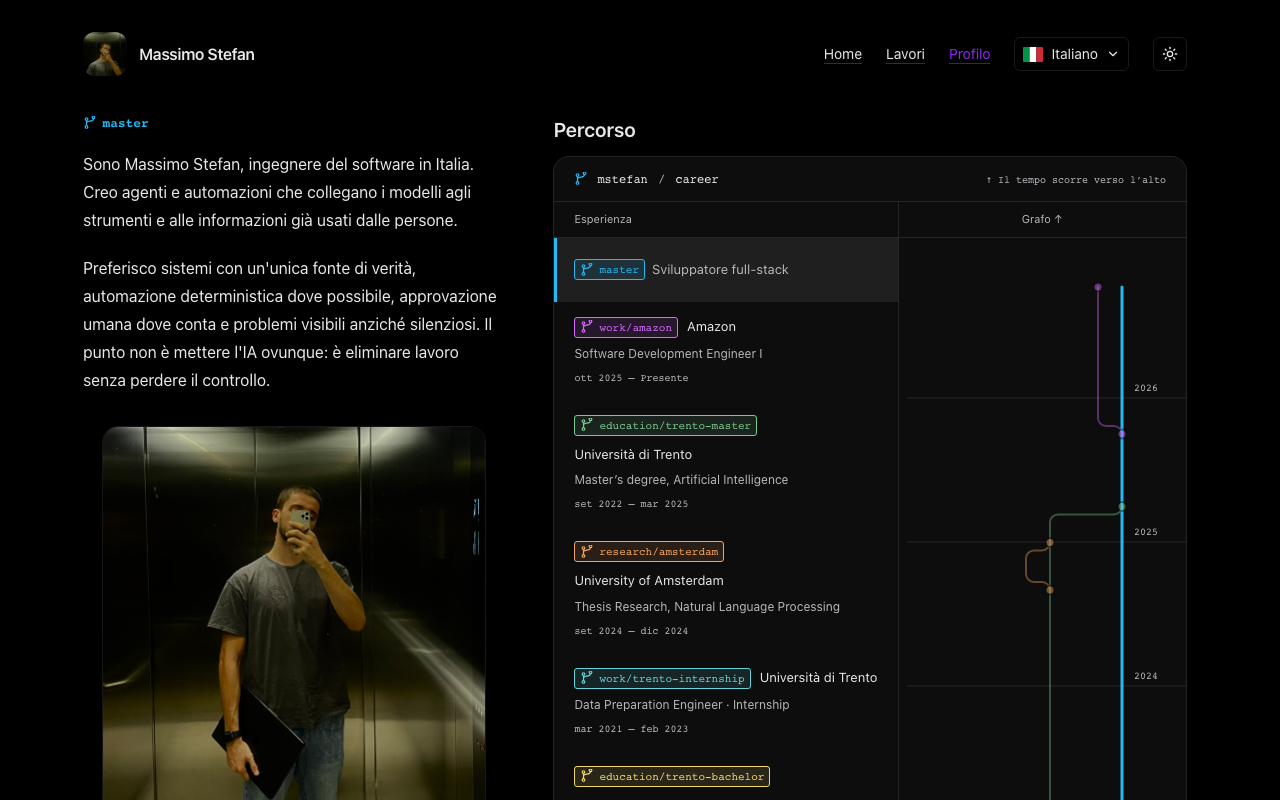
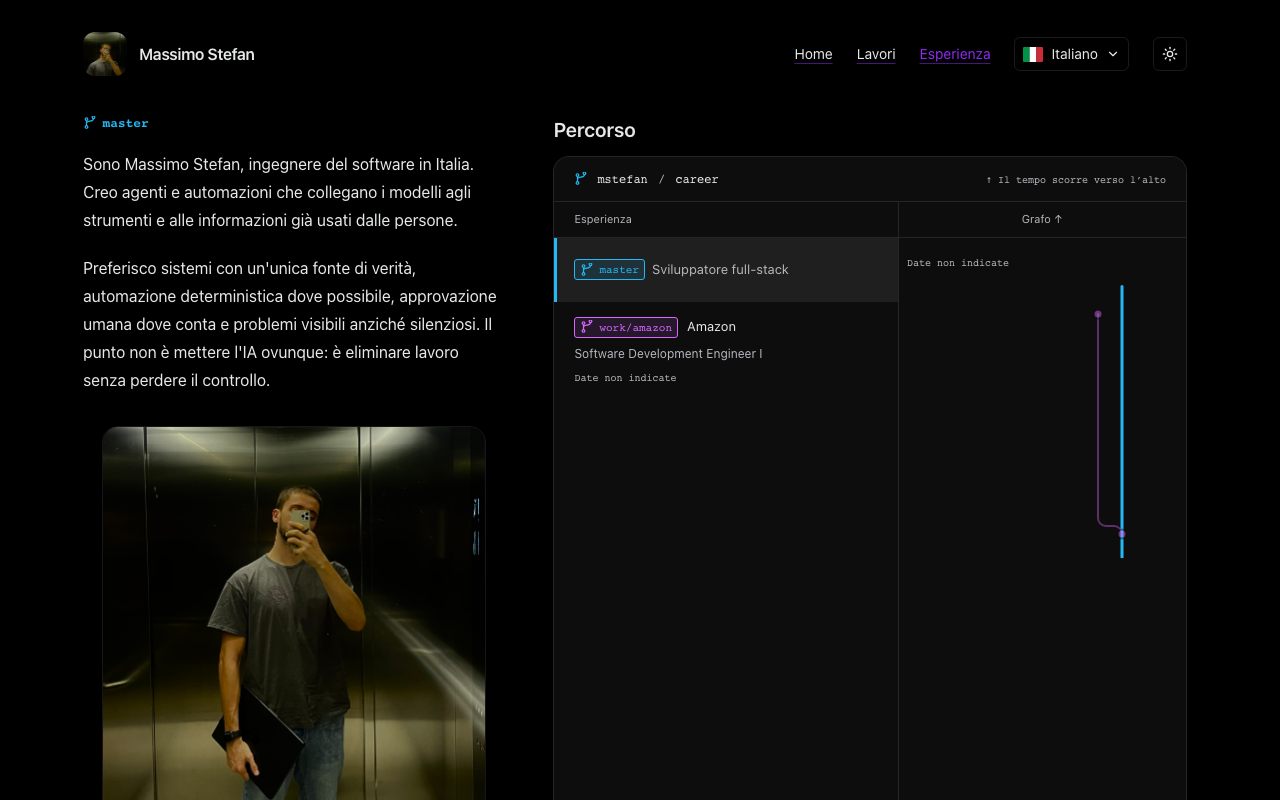
Rename About to Experience (#107)
* Rename About to Experience across the site

* Update reviewed Linux Experience navigation snapshots

* Keep Experience identity independent of stored CMS titles

* Refresh self-site previews with Experience navigation

* Refresh reviewed Linux Experience baselines after icon integration

* Document the verified production CMS-only tunnel

diff --git a/e2e/mstefan-site.review.spec.ts b/e2e/mstefan-site.review.spec.ts
@@ -176,10 +176,10 @@ test.describe("Public website review", () => {
     await expect(desktop).toBeVisible();
     await showReviewStep(page, "2 · Work explorer and responsive preview toggle");
 
-    // 3. Open About and verify its portrait and biography.
-    await page.getByRole("link", { name: "About", exact: true }).click();
+    // 3. Open Experience and verify its portrait and biography.
+    await page.getByRole("link", { name: "Experience", exact: true }).click();
     await expect(page).toHaveURL(/\/en\/about$/);
-    await expect(page.locator("#career-story")).toHaveAttribute("aria-label", "About");
+    await expect(page.locator("#career-story")).toHaveAttribute("aria-label", "Experience");
     await expect(page.getByRole("heading", { level: 1, name: "master" })).toBeVisible();
     await expect(page.getByRole("img", { name: "Massimo Stefan standing in an elevator, holding a laptop" })).toBeVisible();
     const story = page.locator("#career-story");
@@ -203,7 +203,7 @@ test.describe("Public website review", () => {
     await aboutCareer.locator("[data-career-main-row]").click();
     await expect(story.getByRole("heading", { level: 1, name: "master" })).toBeVisible();
     await expect(story.getByRole("img", { name: "Massimo Stefan standing in an elevator, holding a laptop" })).toBeVisible();
-    await showReviewStep(page, "3 · About and portrait");
+    await showReviewStep(page, "3 · Experience and portrait");
 
     // 4. Toggle dark mode and verify the rendered theme state.
     await page.getByRole("button", { name: "Toggle theme" }).click();
@@ -214,7 +214,7 @@ test.describe("Public website review", () => {
     await page.getByRole("button", { name: "Select language" }).click();
     await page.getByRole("menuitemradio", { name: /Italiano/ }).click();
     await expect(page).toHaveURL(/\/it\/about$/);
-    await expect(page.locator("#career-story")).toHaveAttribute("aria-label", "Profilo");
+    await expect(page.locator("#career-story")).toHaveAttribute("aria-label", "Esperienza");
     await expect(page.getByRole("heading", { level: 1, name: "master" })).toBeVisible();
     await expect(page.getByRole("link", { name: "Lavori", exact: true })).toBeVisible();
     await page.getByRole("link", { name: "Lavori", exact: true }).click();
@@ -290,7 +290,7 @@ test.describe("Public website review", () => {
     await page.goto("/en/projects");
     const selector = page.getByRole("combobox", { name: "Preview page", exact: true });
     await expect(selector).toHaveValue("0");
-    await expect(selector.getByRole("option")).toHaveText(["Homepage", "About", "Work"]);
+    await expect(selector.getByRole("option")).toHaveText(["Homepage", "Experience", "Work"]);
     const image = page.getByRole("img", { name: "Desktop: Screenshot of mstefan.dev", exact: true });
     const homepage = await image.getAttribute("src");
     await selector.focus();

diff --git a/lib/i18n/copy.ts b/lib/i18n/copy.ts
@@ -83,7 +83,7 @@ type SiteCopy = {
 
 export const copy = {
   en: {
-    nav: { home: "Home", projects: "Work", about: "About" },
+    nav: { home: "Home", projects: "Work", about: "Experience" },
     metadata: {
       home: {
         title: "Massimo Stefan",
@@ -94,8 +94,8 @@ export const copy = {
         description: "Selected websites and software projects by Massimo Stefan.",
       },
       about: {
-        title: "About",
-        description: "About Massimo Stefan, a software engineer building dependable AI systems.",
+        title: "Experience",
+        description: "Massimo Stefan’s experience building dependable AI systems as a software engineer.",
       },
     },
     header: {
@@ -174,7 +174,7 @@ export const copy = {
 
     },
     about: {
-      title: "About",
+      title: "Experience",
       firstParagraph: "I’m Massimo Stefan, a software engineer based in Italy. I build agents and automation that connect models to the tools and information people already use.",
       secondParagraph: "I prefer systems with one source of truth, deterministic automation where possible, human approval where it matters, and failures that are visible instead of silent. The point is not to add AI everywhere. It is to remove work without losing control.",
       imageAlt: "Massimo Stefan standing in an elevator, holding a laptop",
@@ -182,7 +182,7 @@ export const copy = {
     og: { description: "Software engineer building AI systems for real work." },
   },
   it: {
-    nav: { home: "Home", projects: "Lavori", about: "Profilo" },
+    nav: { home: "Home", projects: "Lavori", about: "Esperienza" },
     metadata: {
       home: {
         title: "Massimo Stefan",
@@ -193,8 +193,8 @@ export const copy = {
         description: "Siti web e progetti software selezionati di Massimo Stefan.",
       },
       about: {
-        title: "Profilo",
-        description: "Profilo di Massimo Stefan, ingegnere del software che realizza sistemi di IA affidabili.",
+        title: "Esperienza",
+        description: "Esperienza di Massimo Stefan, ingegnere del software che realizza sistemi di IA affidabili.",
       },
     },
     header: {
@@ -275,7 +275,7 @@ export const copy = {
 
     },
     about: {
-      title: "Profilo",
+      title: "Esperienza",
       firstParagraph: "Sono Massimo Stefan, ingegnere del software in Italia. Creo agenti e automazioni che collegano i modelli agli strumenti e alle informazioni già usati dalle persone.",
       secondParagraph: "Preferisco sistemi con un'unica fonte di verità, automazione deterministica dove possibile, approvazione umana dove conta e problemi visibili anziché silenziosi. Il punto non è mettere l'IA ovunque: è eliminare lavoro senza perdere il controllo.",
       imageAlt: "Massimo Stefan in ascensore con un laptop in mano",

diff --git a/e2e/not-found.smoke.spec.ts b/e2e/not-found.smoke.spec.ts
@@ -43,7 +43,7 @@ for (const width of [1280, 390]) {
       await expect(page.getByRole("heading", { level: 1 })).toHaveText(locale === "it" ? "Questa pagina non c’è." : "This page isn't here.");
       await expect(page.getByRole("link", { name: "Massimo Stefan", exact: false })).toHaveAttribute("href", `/${locale}`);
       if (width < 640) await page.getByRole("button", { name: locale === "it" ? "Apri navigazione" : "Open navigation" }).click();
-      await expect(page.getByRole("link", { name: locale === "it" ? "Profilo" : "About", exact: true })).toHaveAttribute("href", `/${locale}/about`);
+      await expect(page.getByRole("link", { name: locale === "it" ? "Esperienza" : "Experience", exact: true })).toHaveAttribute("href", `/${locale}/about`);
       await expect(page.getByRole("button", { name: locale === "it" ? "Cambia tema" : "Toggle theme" })).toBeVisible();
       await expect(page.getByRole("button", { name: locale === "it" ? "Seleziona lingua" : "Select language" })).toBeVisible();
     });
@@ -51,7 +51,7 @@ for (const width of [1280, 390]) {
 }
 
 for (const width of [1280, 390]) {
-  test(`@release-smoke ${width}px language, theme, and About recovery work from a 404`, async ({ page, context, baseURL }) => {
+  test(`@release-smoke ${width}px language, theme, and Experience recovery work from a 404`, async ({ page, context, baseURL }) => {
     await page.setViewportSize({ width, height: 800 });
     await context.addCookies([{ name: "site-locale", value: "en", url: baseURL! }]);
     await page.goto("/en/old-page");
@@ -65,9 +65,9 @@ for (const width of [1280, 390]) {
     await expect(page.locator("html")).toHaveClass(/dark/);
     await page.goto("/it/old-page");
     if (width < 640) await page.getByRole("button", { name: "Apri navigazione" }).click();
-    await page.getByRole("link", { name: "Profilo", exact: true }).click();
+    await page.getByRole("link", { name: "Esperienza", exact: true }).click();
     await expect(page).toHaveURL(/\/it\/about$/);
-    await expect(page.locator("#career-story")).toHaveAttribute("aria-label", "Profilo");
+    await expect(page.locator("#career-story")).toHaveAttribute("aria-label", "Esperienza");
     await expect(page.locator("html")).toHaveClass(/dark/);
   });
 }

diff --git a/payload.config.ts b/payload.config.ts
@@ -64,12 +64,12 @@ const publishedDocuments: Access = async ({ req }) => {
 function pageGlobal(slug: "home" | "about"): GlobalConfig {
   return {
     slug,
-    label: slug === "home" ? "Homepage" : "About",
+    label: slug === "home" ? "Homepage" : "Experience",
     access: { read: authenticated, update: authenticated, readVersions: authenticated },
     versions: { drafts: true, max: 20 },
     admin: {
       components: { elements: { beforeDocumentControls: ["./components/cms/PreviewLocaleSync#PreviewLocaleSync"] } },
-      description: "Bilingual page text and About photo. Project and Stack data remain in Notion.",
+      description: "Bilingual page text and Experience photo. Project and Stack data remain in Notion.",
       livePreview: {
         url: ({ locale }) => `/${locale?.code === "it" ? "it" : "en"}${slug === "about" ? "/about" : ""}?preview=1`,
       },
@@ -151,8 +151,8 @@ const careerGlobal: GlobalConfig = {
       },
       { name: "company", label: "Organization", type: "text", required: true },
       { name: "role", label: "Role or qualification", type: "text", required: true },
-      { name: "summary", type: "textarea", admin: { description: "Write this experience's story to show it in About when selected." } },
-      { name: "photo", type: "upload", relationTo: "media", admin: { description: "Shown with this experience in About only when its summary has content." } },
+      { name: "summary", type: "textarea", admin: { description: "Write this experience's story to show it in Experience when selected." } },
+      { name: "photo", type: "upload", relationTo: "media", admin: { description: "Shown with this experience in Experience only when its summary has content." } },
       { name: "documents", type: "array", fields: [
         { name: "title", type: "text", required: true },
         { name: "file", type: "upload", relationTo: "documents", required: true },

diff --git a/components/cms/AboutContent.tsx b/components/cms/AboutContent.tsx
@@ -8,6 +8,7 @@ import { PdfPreview } from "@/components/PdfPreview";
 import { BranchIcon, CareerGraph } from "@/components/CareerGraph";
 import type { Career } from "@/payload-types";
 import type { Locale } from "@/lib/i18n/config";
+import { getCopy } from "@/lib/i18n/copy";
 import type { PageContent } from "@/lib/cms/types";
 import styles from "./AboutContent.module.css";
 
@@ -28,7 +29,7 @@ export function AboutContent({ content, career, locale }: Props) {
   const viewDocuments = locale === "it" ? "Vedi i documenti" : "View documents";
   return (
     <div className={styles.layout}>
-      <section id="career-story" className={styles.story} aria-label={selected?.company || content.title}>
+      <section id="career-story" className={styles.story} aria-label={selected?.company || getCopy(locale).nav.about}>
         <div aria-live="polite" aria-atomic="true">
           <Prose>
             {selected ? <>

diff --git a/deploy/payload-production/README.md b/deploy/payload-production/README.md
@@ -12,9 +12,11 @@ The container runs committed migrations before starting Next.js in production mo
 
 For a copy of the existing development preview, stop the target runtime, verify a recoverable backup, and run `pnpm migrate:baseline-preview` once in the production image with the copied volume and secret. This compares all table columns, indexes and foreign keys against a freshly migrated temporary database, rejects schema drift, and only records matching migration history. Then start normally. Never use the interactive development-schema migration prompt against the original preview database.
 
-The admin Publish button publishes only the active language by default; the secondary all-languages action remains explicit. The Career global owns work and education entries, their branch names, descriptions, optional dates, newest-first display order, graph colors, and optional photos and PDF documents; its drafts use the same publishing workflow. About keeps the main profile visible when a selected career entry has neither a summary nor documents. An experience photo appears only with a written summary. The About photo is shared across languages. Anonymous requests may access only photos visible through published About or summary-backed Career content, and PDFs referenced by published Career content, in either language. PDFs do not require a written summary. Uploaded or replaced draft-only photos and PDFs remain available only to authenticated editors.
+The admin Publish button publishes only the active language by default; the secondary all-languages action remains explicit. The Career global owns work and education entries, their branch names, descriptions, optional dates, newest-first display order, graph colors, and optional photos and PDF documents; its drafts use the same publishing workflow. Experience keeps the main profile visible when a selected career entry has neither a summary nor documents. An experience photo appears only with a written summary. The Experience photo is shared across languages. Anonymous requests may access only photos visible through published Experience or summary-backed Career content, and PDFs referenced by published Career content, in either language. PDFs do not require a written summary. Uploaded or replaced draft-only photos and PDFs remain available only to authenticated editors.
 
 Administration, Payload APIs, and draft previews are available through the loopback-bound application port or its private SSH tunnel. With `SITE_DEPLOYMENT=private`, the exact tailnet Serve Host `itakello-server.tailacf6a7.ts.net:10000` is also accepted. That route must remain tailnet-only and have no public Openship endpoint. The Openship public reverse proxy must preserve Host and overwrite X-Real-IP on every request; any X-Real-IP denies private access even when Host claims the loopback or tailnet address. X-Forwarded-Host does not grant access. Public media and document file requests discard CMS credentials and use `Cache-Control: no-store` so publication changes revoke access. Only signed webhook POST handlers and published media and document file GET/HEAD requests are exposed under `/api`.
+
+The production editor uses the registered Mac loopback tunnel at `http://127.0.0.1:3102/admin`. Start it with `ssh -N -F ~/.ssh/config.local -L 127.0.0.1:3102:127.0.0.1:20001 mstefan-cms`. The CMS-only account uses the existing 1Password-held SSH key and permits local forwarding only to server `127.0.0.1:20001`; shell sessions, remote forwarding, passwords, and agent forwarding are disabled. Its host policy is `/etc/ssh/sshd_config.d/70-mstefan-cms.conf`. Verify the actual production port mapping before reconnecting after deployment or rollback, using Infra’s service and port registry.
 
 Use the [manual backup procedure](BACKUP.md) while all writers are stopped. Verify a restored copy in an isolated volume before relying on the archive for recovery; same-host archives do not protect against host loss.
 

diff --git a/deploy/event/README.md b/deploy/event/README.md
@@ -6,7 +6,7 @@ A successful push `CI` workflow event passes its exact SHA and run ID through a 
 
 The active baseline and candidate recursive Git tree/blob identities must match for migrations, Payload configuration/runtime, collection/global/schema directories, dependencies/lockfile, Dockerfile, `.dockerignore`, TypeScript/Next build configuration and startup configuration. `lib/i18n/copy.ts` and locale configuration are included because Payload derives localized field names from their object keys. Changes to these protected files block for attended compatibility and restore proof. Runtime documentation and backup tests do not block. This conservative gate does not certify arbitrary application changes as migration-compatible; any new schema/startup path must enter the protected set before use.
 
-After deployment, provider record/build status and active deployment ID/commit must match. Read-only GETs to exact `https://www.mstefan.dev` English/Italian Home, Projects and About must return 200. Admin, users, draft/version APIs, GraphQL and preview probes must return 404. Redirects are rejected on these exact paths. These probes establish route status/privacy and provider commit metadata; they do not attest the public HTML's build SHA. The controller also requires one running RW mount of the approved named volume, belonging to the exact active deployment container, before submission and during smoke. Smoke and the probe must be proven on the installed host before activation.
+After deployment, provider record/build status and active deployment ID/commit must match. Read-only GETs to exact `https://www.mstefan.dev` English/Italian Home, Projects and Experience must return 200. Admin, users, draft/version APIs, GraphQL and preview probes must return 404. Redirects are rejected on these exact paths. These probes establish route status/privacy and provider commit metadata; they do not attest the public HTML's build SHA. The controller also requires one running RW mount of the approved named volume, belonging to the exact active deployment container, before submission and during smoke. Smoke and the probe must be proven on the installed host before activation.
 
 ## Host installation and activation proof
 

diff --git a/specs/mstefan-site-review.md b/specs/mstefan-site-review.md
@@ -18,7 +18,7 @@
 
 1. Open `/en`. The English introduction and Selected work heading are visible. Toolkit categories wrap without sideways scrolling, and phone summaries use their own full-width row.
 2. Follow Work to `/en/projects`. A compact desktop project list selects details and links above a single preview without its own scrollbar. Below 1024px, a labeled native picker replaces the list and keeps selection and preview resets in sync. Desktop/Mobile buttons with matching icons select passive homepage images captured at 1280px and 390px. Neither image loads an embedded website. Karakal also displays screenshot previews; website-only and repository-only selections expose only their available links. `/en/websites` redirects to Work.
-3. Follow the About navigation link. The URL ends in `/en/about`. At desktop widths of at least 1100px, the profile is left of the career graph with their top edges aligned; on mobile, the profile precedes a full-width chronological experience list without an internal scrollbar; the graph is hidden and list buttons remain keyboard-accessible. The profile heading and portrait are visible. Selecting the fixture experience without a summary or document keeps the profile and offers no Read story link; returning to the main branch preserves the profile and portrait.
+3. Follow the Experience navigation link. The URL ends in `/en/about`. At desktop widths of at least 1100px, the profile is left of the career graph with their top edges aligned; on mobile, the profile precedes a full-width chronological experience list without an internal scrollbar; the graph is hidden and list buttons remain keyboard-accessible. The profile heading and portrait are visible. Selecting the fixture experience without a summary or document keeps the profile and offers no Read story link; returning to the main branch preserves the profile and portrait.
 4. Toggle the theme. The document enters dark mode.
 5. Switch the language to Italian. The same page becomes `/it/about`; the main branch heading, Italian profile, and Lavori navigation link are visible.
 

diff --git a/DESIGN.md b/DESIGN.md
@@ -2,7 +2,7 @@
 
 ## Intent
 
-A quiet portfolio with a shared visual language across Home, Work, and About. Read this contract before changing public UI and compare the result with related existing screens, not only the edited component.
+A quiet portfolio with a shared visual language across Home, Work, and Experience. Read this contract before changing public UI and compare the result with related existing screens, not only the edited component.
 
 ## Foundations
 
@@ -29,7 +29,7 @@ Native scrollbars use the global track, thumb, width, and accent-hover rules. Do
 
 ## Verification and AI review
 
-The isolated production fixture must render pinned real icon artwork and fail on missing fixtures. Check Home, Work, About, and contact links at desktop/mobile sizes in light/dark themes. Compare approved screenshot baselines and assert actual glyphs, transparent wrappers, consistent GitHub paths, and shared scrollbar styling. Keep named current screenshots in the CI evidence for independent review. Exercise selection, keyboard focus, scrolling, and existing bilingual navigation as well as appearance.
+The isolated production fixture must render pinned real icon artwork and fail on missing fixtures. Check Home, Work, Experience, and contact links at desktop/mobile sizes in light/dark themes. Compare approved screenshot baselines and assert actual glyphs, transparent wrappers, consistent GitHub paths, and shared scrollbar styling. Keep named current screenshots in the CI evidence for independent review. Exercise selection, keyboard focus, scrolling, and existing bilingual navigation as well as appearance.
 
 An independent AI reviewer must inspect the complete current diff and its rendered evidence against this contract. Compare the changed pattern with its callers and related pages. Report a concrete rule, affected locations, and visible evidence for each inconsistency; separate proven violations from subjective suggestions. A passing functional journey or recording alone is not design approval.
 

diff --git a/README.md b/README.md
@@ -40,7 +40,7 @@ pnpm dev
   :root { --accent: 350 89% 56%; }
   ```
 - **Home content**: `app/[locale]/page.tsx`.
-- **About**: `app/[locale]/about/page.tsx`.
+- **Experience**: `app/[locale]/about/page.tsx`.
 - **Contact links**: `components/Footer.tsx`.
 
 If you fork this repo, also update the hardcoded GitHub username used for repo fetching:
